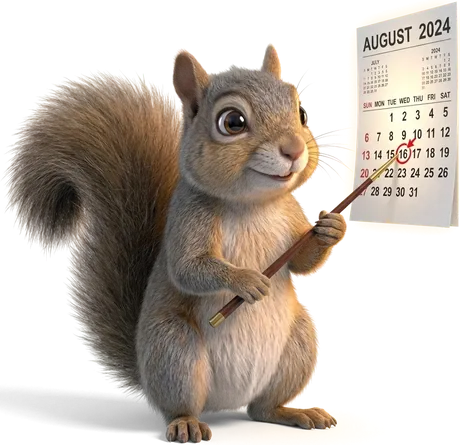
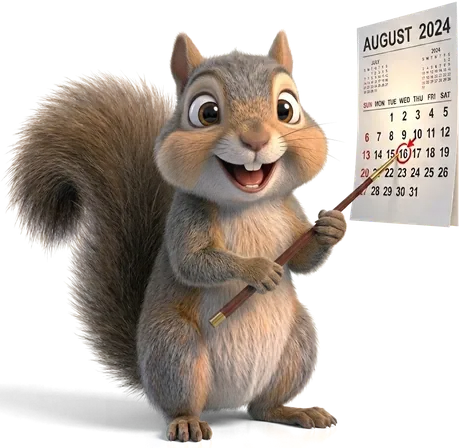
0.65.1 — new scout-calendar render
Re-cut from the updated pair and re-exported for both the app and the
site. Nothing else in src/assets/mascot changed, which is the check
worth doing: the pipeline runs every pose and a Pillow upgrade or a
stray parameter would quietly redraw the other twelve.

The matte came out clean. No watermark survived — the 24×24 knockout
found nothing above the floor in the corner where the sparkle lives —
and the whiskers and tail fur are intact on cream and on slate both,
which is the failure mode that only shows on a dark background.

EXPORTED AT 360, NOT 240. The old size was set when this pose was drawn
but unplaced, and the list is meant to hold twice the size each pose is
actually rendered at. It's the empty subscriptions tab at 170, so 240
was under a 2× screen and visibly soft. 32 KB to 67 KB, paid on every
install, and correct.

Both stale "not placed yet" notes went with it — one in the export list,
one in the gallery roster, which called this "beside the calendar" from
before he moved up into the masthead.

1207 checks, typecheck and build clean.

Changed region(s): [[0.0, 0.0584, 1.0, 1.0], [0.913, 0.0584, 0.9739, 0.0876], [0.3043, 0.7888, 0.3348, 0.818]]

diff --git a/src/components/Scout.tsx b/src/components/Scout.tsx
@@ -27,7 +27,7 @@ import waving from '@/assets/mascot/scout-waving.webp';
  *   folder    filing the paper original — after a save, and in the tour
  *   bin       fishing receipts back out — recently deleted
  *   clipboard glasses on, taking it down — the item form
- *   calendar  holding up the month — not placed yet
+ *   calendar  holding up the month — subscriptions
  *   dancing   both arms up — not placed yet
  *   settings  at a control desk — settings
  *   alert     ears up, something needs you
@@ -91,7 +91,7 @@ export const SCOUT_POSES: { pose: ScoutPose; name: string; where: string }[] = [
   /* Drawn, cut out and ready. Listed here rather than held back, because the
      album is the only written-down record of the cast and a pose that exists
      but isn't in it is a pose everyone forgets they have. */
-  { pose: 'calendar', name: 'Minding the month', where: 'Beside the calendar on the subscriptions tab' },
+  { pose: 'calendar', name: 'Minding the month', where: 'The subscriptions tab' },
   { pose: 'dancing', name: 'Very pleased', where: 'Not on a screen yet' },
   { pose: 'settings', name: 'At the desk', where: 'This screen' },
   { pose: 'alert', name: 'Ears up', where: 'When something needs a minute, or needs confirming' },
